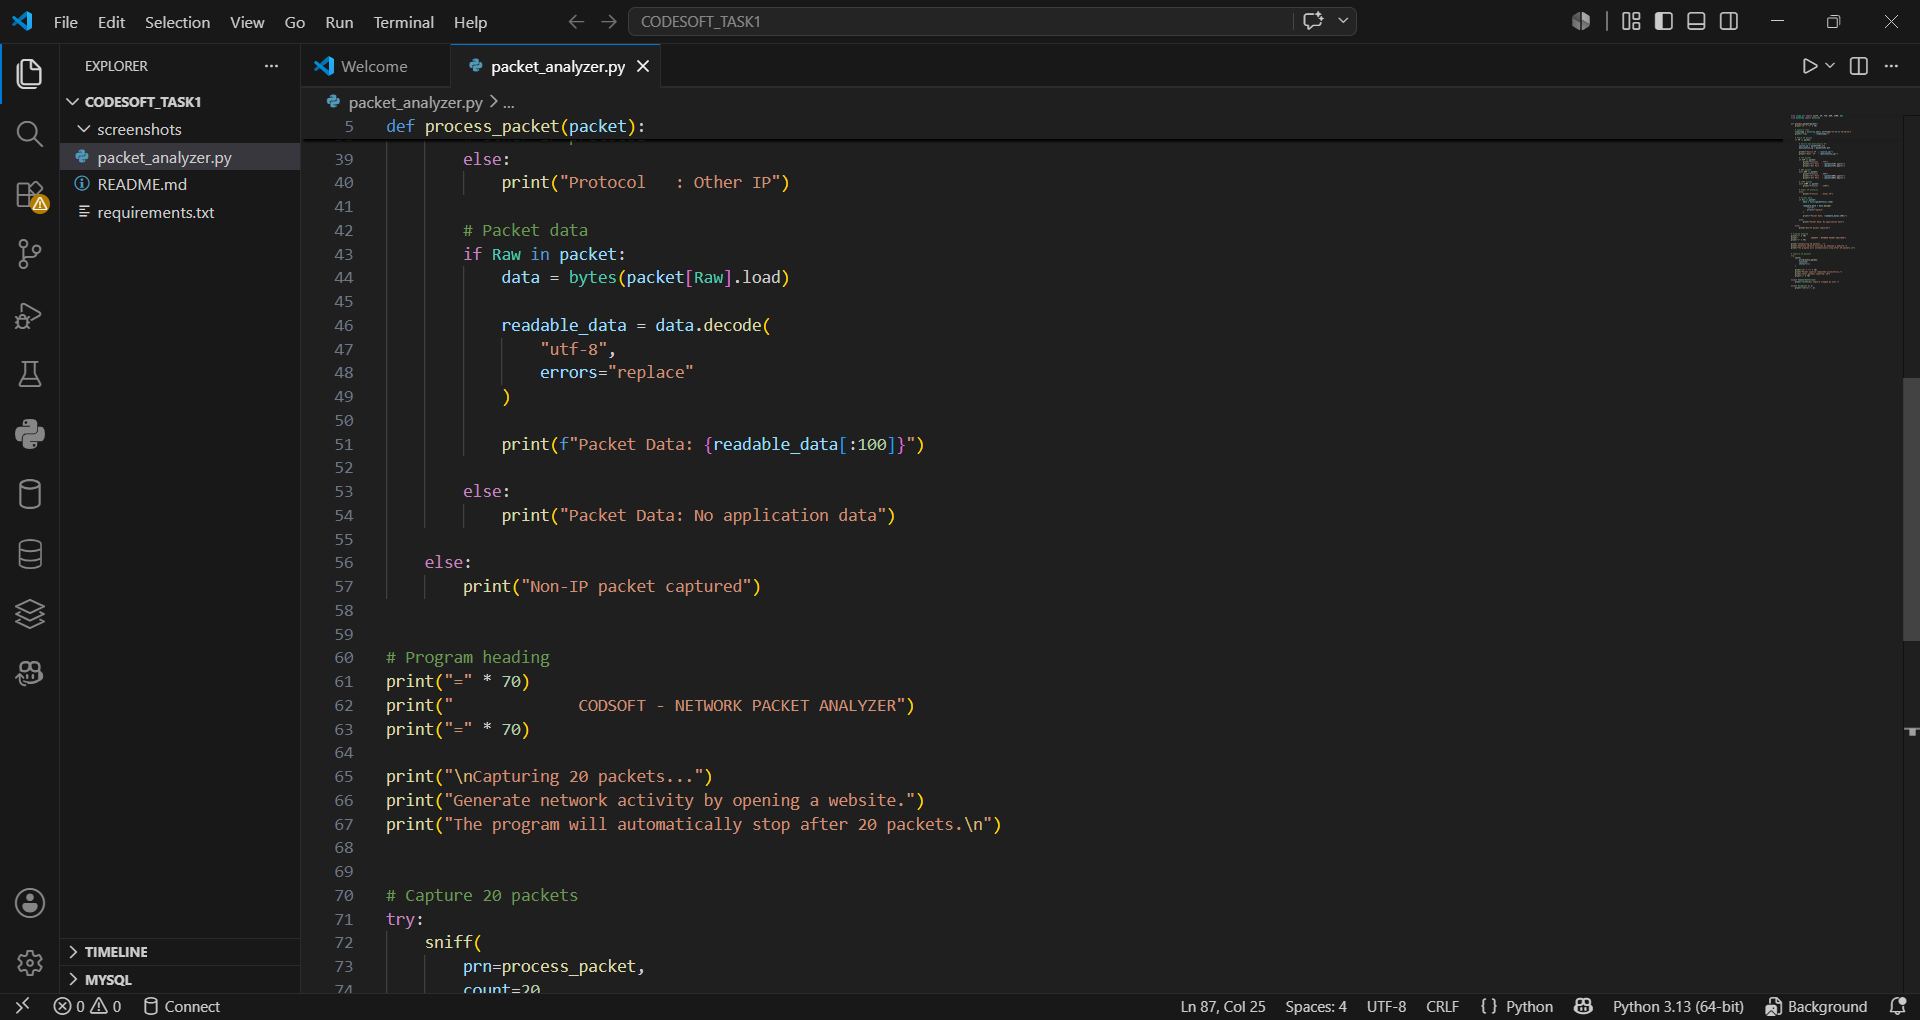
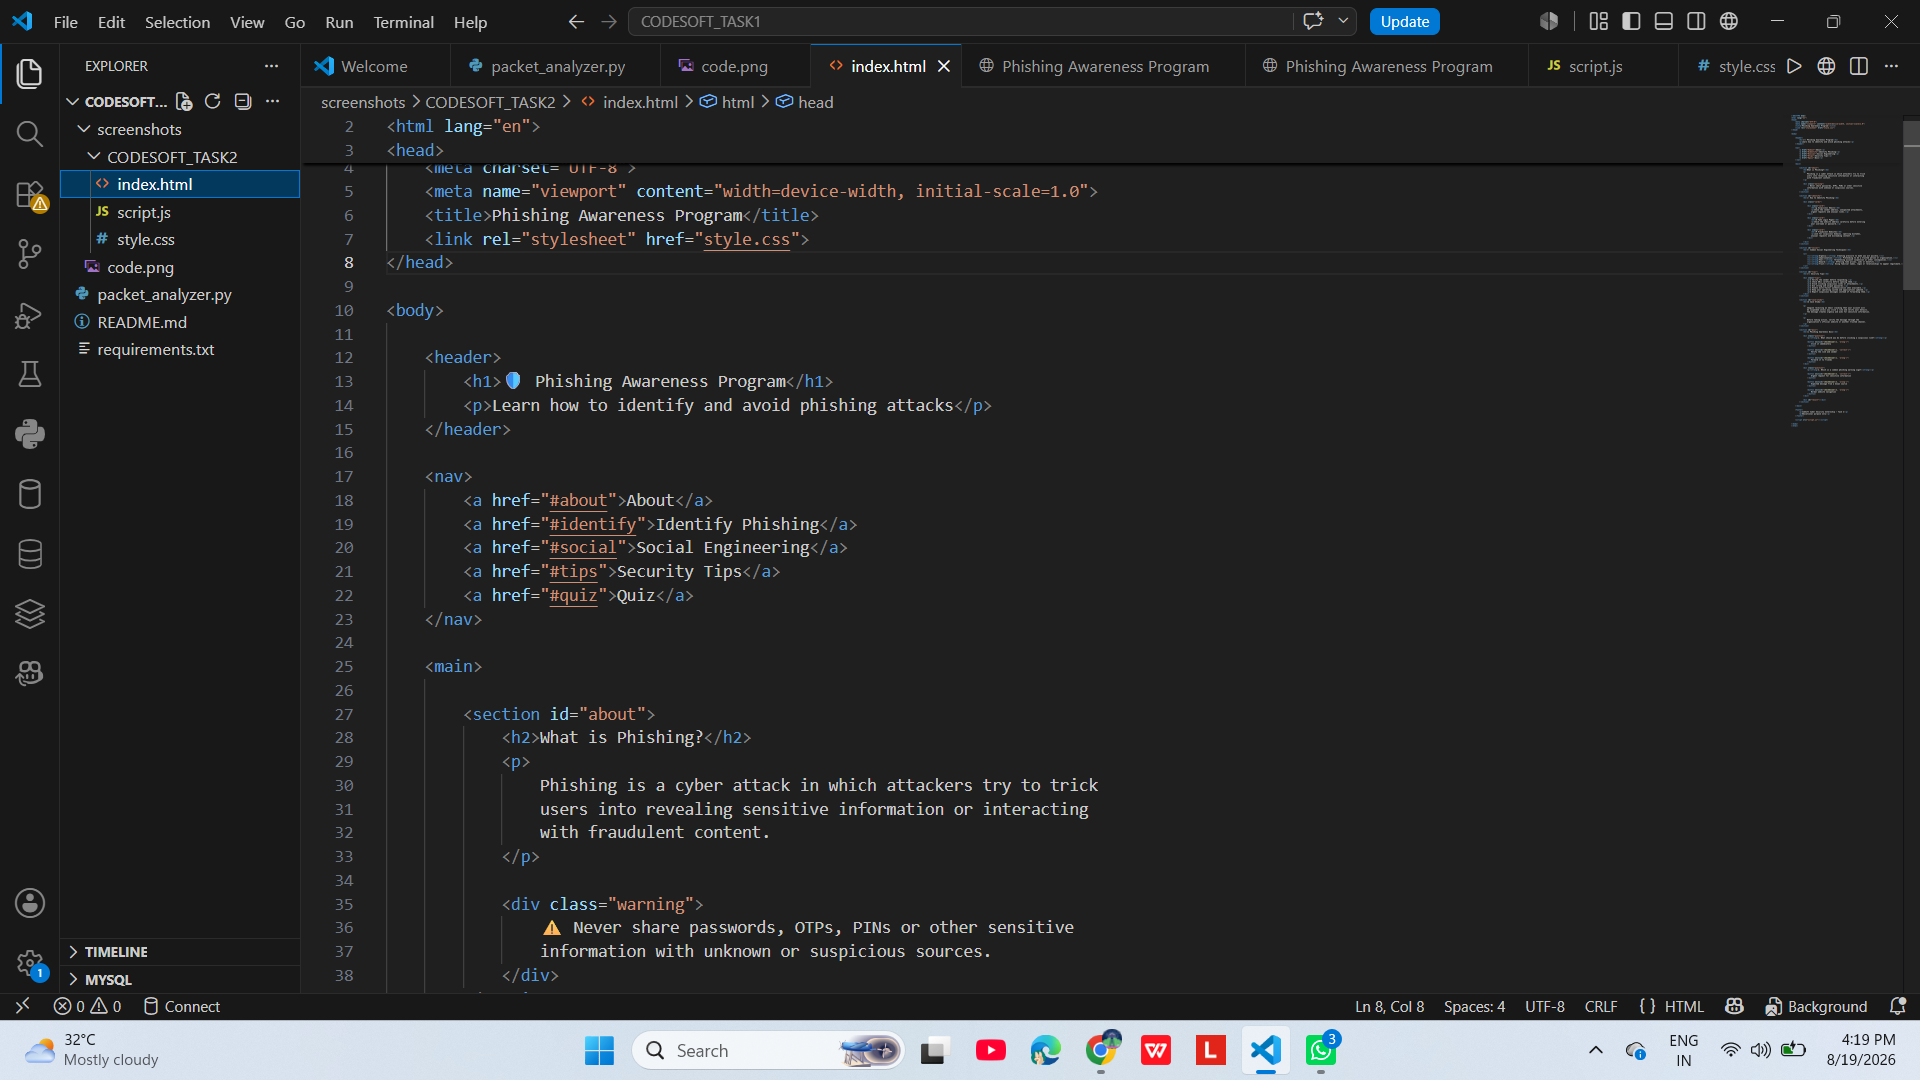
Add Task 2

diff --git a/index.html b/index.html
@@ -1,0 +1,156 @@
+<!DOCTYPE html>
+<html lang="en">
+<head>
+    <meta charset="UTF-8">
+    <meta name="viewport" content="width=device-width, initial-scale=1.0">
+    <title>Phishing Awareness Program</title>
+    <link rel="stylesheet" href="style.css">
+</head>
+
+<body>
+
+    <header>
+        <h1>🛡 Phishing Awareness Program</h1>
+        <p>Learn how to identify and avoid phishing attacks</p>
+    </header>
+
+    <nav>
+        <a href="#about">About</a>
+        <a href="#identify">Identify Phishing</a>
+        <a href="#social">Social Engineering</a>
+        <a href="#tips">Security Tips</a>
+        <a href="#quiz">Quiz</a>
+    </nav>
+
+    <main>
+
+        <section id="about">
+            <h2>What is Phishing?</h2>
+            <p>
+                Phishing is a cyber attack in which attackers try to trick
+                users into revealing sensitive information or interacting
+                with fraudulent content.
+            </p>
+
+            <div class="warning">
+                ⚠ Never share passwords, OTPs, PINs or other sensitive
+                information with unknown or suspicious sources.
+            </div>
+        </section>
+
+        <section id="identify">
+            <h2>🔍 How to Identify Phishing</h2>
+
+            <div class="cards">
+
+                <div class="card">
+                    <h3>📧 Suspicious Emails</h3>
+                    <p>Check the sender address, unexpected attachments,
+                    urgent requests and unusual links.</p>
+                </div>
+
+                <div class="card">
+                    <h3>🔐 Fake Login Pages</h3>
+                    <p>Check the website address carefully before entering
+                    your username or password.</p>
+                </div>
+
+                <div class="card">
+                    <h3>🌐 Fraudulent Websites</h3>
+                    <p>Look for suspicious domains, spelling mistakes,
+                    unusual requests and misleading content.</p>
+                </div>
+
+            </div>
+        </section>
+
+        <section id="social">
+            <h2>🎭 Common Social Engineering Techniques</h2>
+
+            <ul>
+                <li><strong>Urgency:</strong> Creating pressure to make you act quickly.</li>
+                <li><strong>Impersonation:</strong> Pretending to be a trusted person or organization.</li>
+                <li><strong>Fear:</strong> Threatening account suspension or other consequences.</li>
+                <li><strong>Reward:</strong> Offering fake prizes, jobs or benefits.</li>
+                <li><strong>Trust:</strong> Using familiar names, logos or relationships to appear legitimate.</li>
+            </ul>
+        </section>
+
+        <section id="tips">
+            <h2>🛡 Security Tips</h2>
+
+            <div class="tips">
+                <p>✅ Verify the sender before responding.</p>
+                <p>✅ Check URLs carefully before opening them.</p>
+                <p>✅ Avoid clicking suspicious links or attachments.</p>
+                <p>✅ Use strong and unique passwords.</p>
+                <p>✅ Enable multi-factor authentication when available.</p>
+                <p>✅ Keep your operating system and applications updated.</p>
+                <p>✅ Report suspicious messages instead of forwarding them.</p>
+            </div>
+        </section>
+
+        <section id="case-study">
+            <h2>📚 Case Study</h2>
+
+            <p>
+                Imagine receiving an email claiming that your account will
+                be suspended unless you click a link and verify your details.
+                The message creates urgency and asks for sensitive information.
+            </p>
+
+            <p>
+                Before taking action, verify the message through the
+                organization's official website or another trusted channel.
+            </p>
+        </section>
+
+        <section id="quiz">
+            <h2>📝 Phishing Awareness Quiz</h2>
+
+            <div class="question">
+                <p><strong>1. What should you do before clicking a suspicious link?</strong></p>
+
+                <button onclick="checkAnswer(1, 'wrong')">
+                    Click it immediately
+                </button>
+
+                <button onclick="checkAnswer(1, 'correct')">
+                    Verify the link and sender
+                </button>
+
+                <button onclick="checkAnswer(1, 'wrong')">
+                    Forward it to friends
+                </button>
+            </div>
+
+            <div class="question">
+                <p><strong>2. Which is a common phishing warning sign?</strong></p>
+
+                <button onclick="checkAnswer(2, 'correct')">
+                    Urgent request for sensitive information
+                </button>
+
+                <button onclick="checkAnswer(2, 'wrong')">
+                    Expected message from a known source
+                </button>
+
+                <button onclick="checkAnswer(2, 'wrong')">
+                    Normal website navigation
+                </button>
+            </div>
+
+            <div id="result"></div>
+        </section>
+
+    </main>
+
+    <footer>
+        <p>CodSoft Cyber Security Internship - Task 2</p>
+        <p>Educational purpose only</p>
+    </footer>
+
+    <script src="script.js"></script>
+
+</body>
+</html>

diff --git a/style.css b/style.css
@@ -1,0 +1,101 @@
+* {
+    margin: 0;
+    padding: 0;
+    box-sizing: border-box;
+}
+
+body {
+    font-family: Arial, sans-serif;
+    background: #f4f7fb;
+    color: #222;
+    line-height: 1.6;
+}
+
+header {
+    background: #0b1f3a;
+    color: white;
+    text-align: center;
+    padding: 25px 15px;
+}
+
+header h1 {
+    margin-bottom: 8px;
+}
+
+main {
+    max-width: 900px;
+    margin: 30px auto;
+    padding: 0 20px;
+}
+
+section {
+    background: white;
+    padding: 25px;
+    margin-bottom: 25px;
+    border-radius: 12px;
+    box-shadow: 0 3px 10px rgba(0,0,0,0.1);
+}
+
+h2 {
+    color: #0b1f3a;
+    margin-bottom: 15px;
+}
+
+ul {
+    margin-left: 25px;
+}
+
+.quiz {
+    margin-top: 20px;
+}
+
+.question {
+    margin-bottom: 20px;
+}
+
+button {
+    display: block;
+    width: 100%;
+    padding: 12px;
+    margin: 8px 0;
+    border: none;
+    border-radius: 8px;
+    background: #1769aa;
+    color: white;
+    cursor: pointer;
+    font-size: 16px;
+}
+
+button:hover {
+    background: #0b4f82;
+}
+
+#result {
+    margin-top: 20px;
+    padding: 15px;
+    border-radius: 8px;
+    font-weight: bold;
+    text-align: center;
+}
+
+footer {
+    background: #0b1f3a;
+    color: white;
+    text-align: center;
+    padding: 20px;
+    margin-top: 30px;
+}
+
+@media (max-width: 600px) {
+    main {
+        padding: 10px;
+    }
+
+    section {
+        padding: 18px;
+    }
+
+    button {
+        font-size: 14px;
+    }
+}

diff --git a/script.js b/script.js
@@ -1,0 +1,13 @@
+function checkAnswer(question, answer) {
+    const result = document.getElementById("result");
+
+    if (answer === "correct") {
+        result.innerHTML = "✅ Correct Answer!";
+        result.style.background = "#d4edda";
+        result.style.color = "#155724";
+    } else {
+        result.innerHTML = "❌ Incorrect Answer. Try again!";
+        result.style.background = "#f8d7da";
+        result.style.color = "#721c24";
+    }
+}
